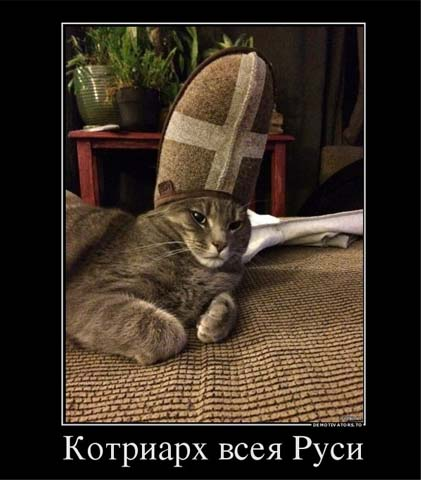
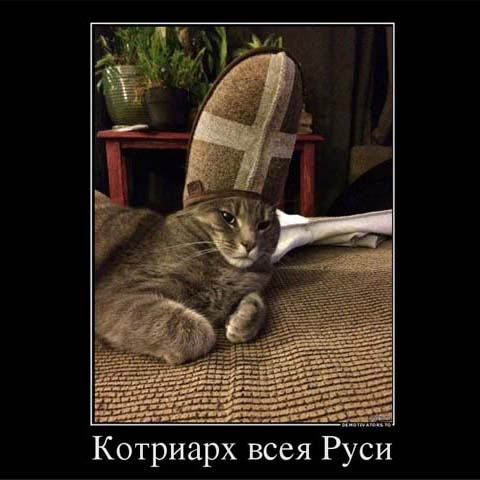
fix: fix size images (Sun, Sep 17, 2023 04:31:40 PM)

Changed region(s): [[0.1235, 0.0312, 0.8955, 1.0], [0.9881, 0.0, 1.0, 1.0], [0.7102, 0.2188, 0.7411, 0.25]]

diff --git a/cssMemeSlider/style.css b/cssMemeSlider/style.css
@@ -20,36 +20,73 @@ body {
 }
 
 .slider {
+  /* margin-top: 100px; */
   display: flex;
   flex-direction: column;
-  max-width: 1100px;
+  max-width: 480px;
   width: 100%;
   height: 600px;
   overflow: hidden;
-  border: 3px solid white;
-  margin: 0 auto;
+  /* border: 3px solid white; */
+  margin: 100px auto 0;
+  /* justify-content: center;
+  align-items: center; */
 }
 
 .navigation {
+  margin-top: 30px;
+  margin-bottom: 30px;
   display: flex;
+  justify-content: flex-end;
 }
 
 .bar {
   display: flex;
-  height: 8px;
-  width: 30px;
-  margin: 6px;
+  justify-content: center;
+  align-items: center;
+  height: 36px;
+  width: 36px;
+  /* margin: 6px; */
+  /* border: 1px solid red; */
   cursor: pointer;
-  background-color: #3a0303;
-  opacity: 0.5;
-  border-radius: 10px;
+  /* background-color: #3a0303; */
+  /* opacity: 0.5; */
+  /* border-radius: 10px; */
   transition: all .4s ease;
 }
 
-.bar:hover {
-  opacity: 0.8;
-  transform: scale(1.1);
+.custome_input {
+  display: flex;
+  height: 20px;
+  width: 20px;
+  border: 2px solid black;
+  background-color: black;
+  border-radius: 10px;
 }
+
+.bar:hover .custome_input {
+  /* opacity: 0.8;
+  transform: scale(1.1); */
+  border: 2px solid #3a0303;
+  background-color: #3a0303;
+}
+
+#r1:checked ~ .navigation > .bar:nth-child(1) > .custome_input {
+  background-color: #ecdcdc;
+}
+
+#r2:checked ~ .navigation > .bar:nth-child(2) > .custome_input {
+  background-color: #ecdcdc;
+}
+
+#r3:checked ~ .navigation > .bar:nth-child(3) > .custome_input {
+  background-color: #ecdcdc;
+}
+
+#r4:checked ~ .navigation > .bar:nth-child(4) > .custome_input {
+  background-color: #ecdcdc;
+}
+
 
 input[name="r"] {
   display: none;
@@ -60,31 +97,49 @@ input[name="r"] {
   display: flex;
   width: 400%;
   height: 100%;
+  /* border: 1px solid red; */
+
 }
 
 .slide {
+  display: flex;
+  justify-content: center;
+  /* flex-direction: column; */
   width: 25%;
   transition: all .6s ease;
+  /* border: 1px solid blue; */
 }
 
-.slige img {
-  width: 100%;
-  height: 100%;
+.slide1 {
+  display: flex;
+  /* justify-content: center; */
+  /* flex-direction: column; */
+  width: 25%;
+  transition: all .6s ease;
+  /* border: 1px solid blue; */
 }
 
-#r1:checked ~ .s1 {
+/* img {
+  
+} */
+
+.s1 {
   margin-left: 0;
 }
 
-#r2:checked ~ .s1 {
+#r1:checked ~ .slides > .s1 {
+  margin-left: 0;
+}
+
+#r2:checked ~ .slides > .s1 {
   margin-left: -25%;
 }
 
-#r3:checked ~ .s1 {
+#r3:checked ~ .slides > .s1 {
   margin-left: -50%;
 }
 
-#r4:checked ~ .s1 {
+#r4:checked ~ .slides > .s1 {
   margin-left: -75%;
 }
 

diff --git a/cssMemeSlider/index.html b/cssMemeSlider/index.html
@@ -11,30 +11,62 @@
 </head>
 <body>
 
-  <div class="slider middle">
+  <div class="slider">
+    <input type="radio" name="r" id="r1" checked>
+    <input type="radio" name="r" id="r2">
+    <input type="radio" name="r" id="r3">
+    <input type="radio" name="r" id="r4"> 
 
     <div class="slides">
-
-      <input type="radio" name="r" id="r1" checked>
-      <input type="radio" name="r" id="r2">
-      <input type="radio" name="r" id="r3">
-      <input type="radio" name="r" id="r4">
-
-      <div class="slide s1"><img src="image/1.jpg" alt="1"></div>
-      <div class="slide"><img src="image/2.jpg" alt="2"></div>
-      <div class="slide"><img src="image/3.jpg" alt="3"></div>
-      <div class="slide"><img src="image/4.jpg" alt="4"></div>
-
+      <div class="slide s1">
+        <img src="image/1.jpg" alt="1">
+      </div>
+      <div class="slide p2">
+        <img src="image/2.jpg" alt="2">
+      </div>
+      <div class="slide">
+        <img src="image/3.jpg" alt="3">
+      </div>
+      <div class="slide">
+        <img src="image/4.jpg" alt="4">
+      </div>
     </div>
 
     <div class="navigation">
-      <label for="r1" class="bar"></label>
-      <label for="r2" class="bar"></label>
-      <label for="r3" class="bar"></label>
-      <label for="r4" class="bar"></label>
+      <label for="r1" class="bar">
+        <div class="custome_input"></div>
+      </label>
+      <label for="r2" class="bar">
+        <div class="custome_input"></div>
+      </label>
+      <label for="r3" class="bar">
+        <div class="custome_input"></div>
+      </label>
+      <label for="r4" class="bar">
+        <div class="custome_input"></div>
+      </label>
     </div>
-
+    
+    <div class="slides">
+      <div class="slide1 s1">
+        <p>Гиде майн висвкас, руссише швайне?</p>
+      </div>
+      <div class="slide1">
+        <p>Богом клянусь, твои тапочки сами обоссались!</p>
+      </div>
+      <div class="slide1">
+        <p>Разбил Айфон</p>
+      </div>
+      <div class="slide1">
+        <p>Котриарх всея Руси</p>
+      </div>
+    </div>
   </div>
+  
+  
+
+
+  
 
 
 
